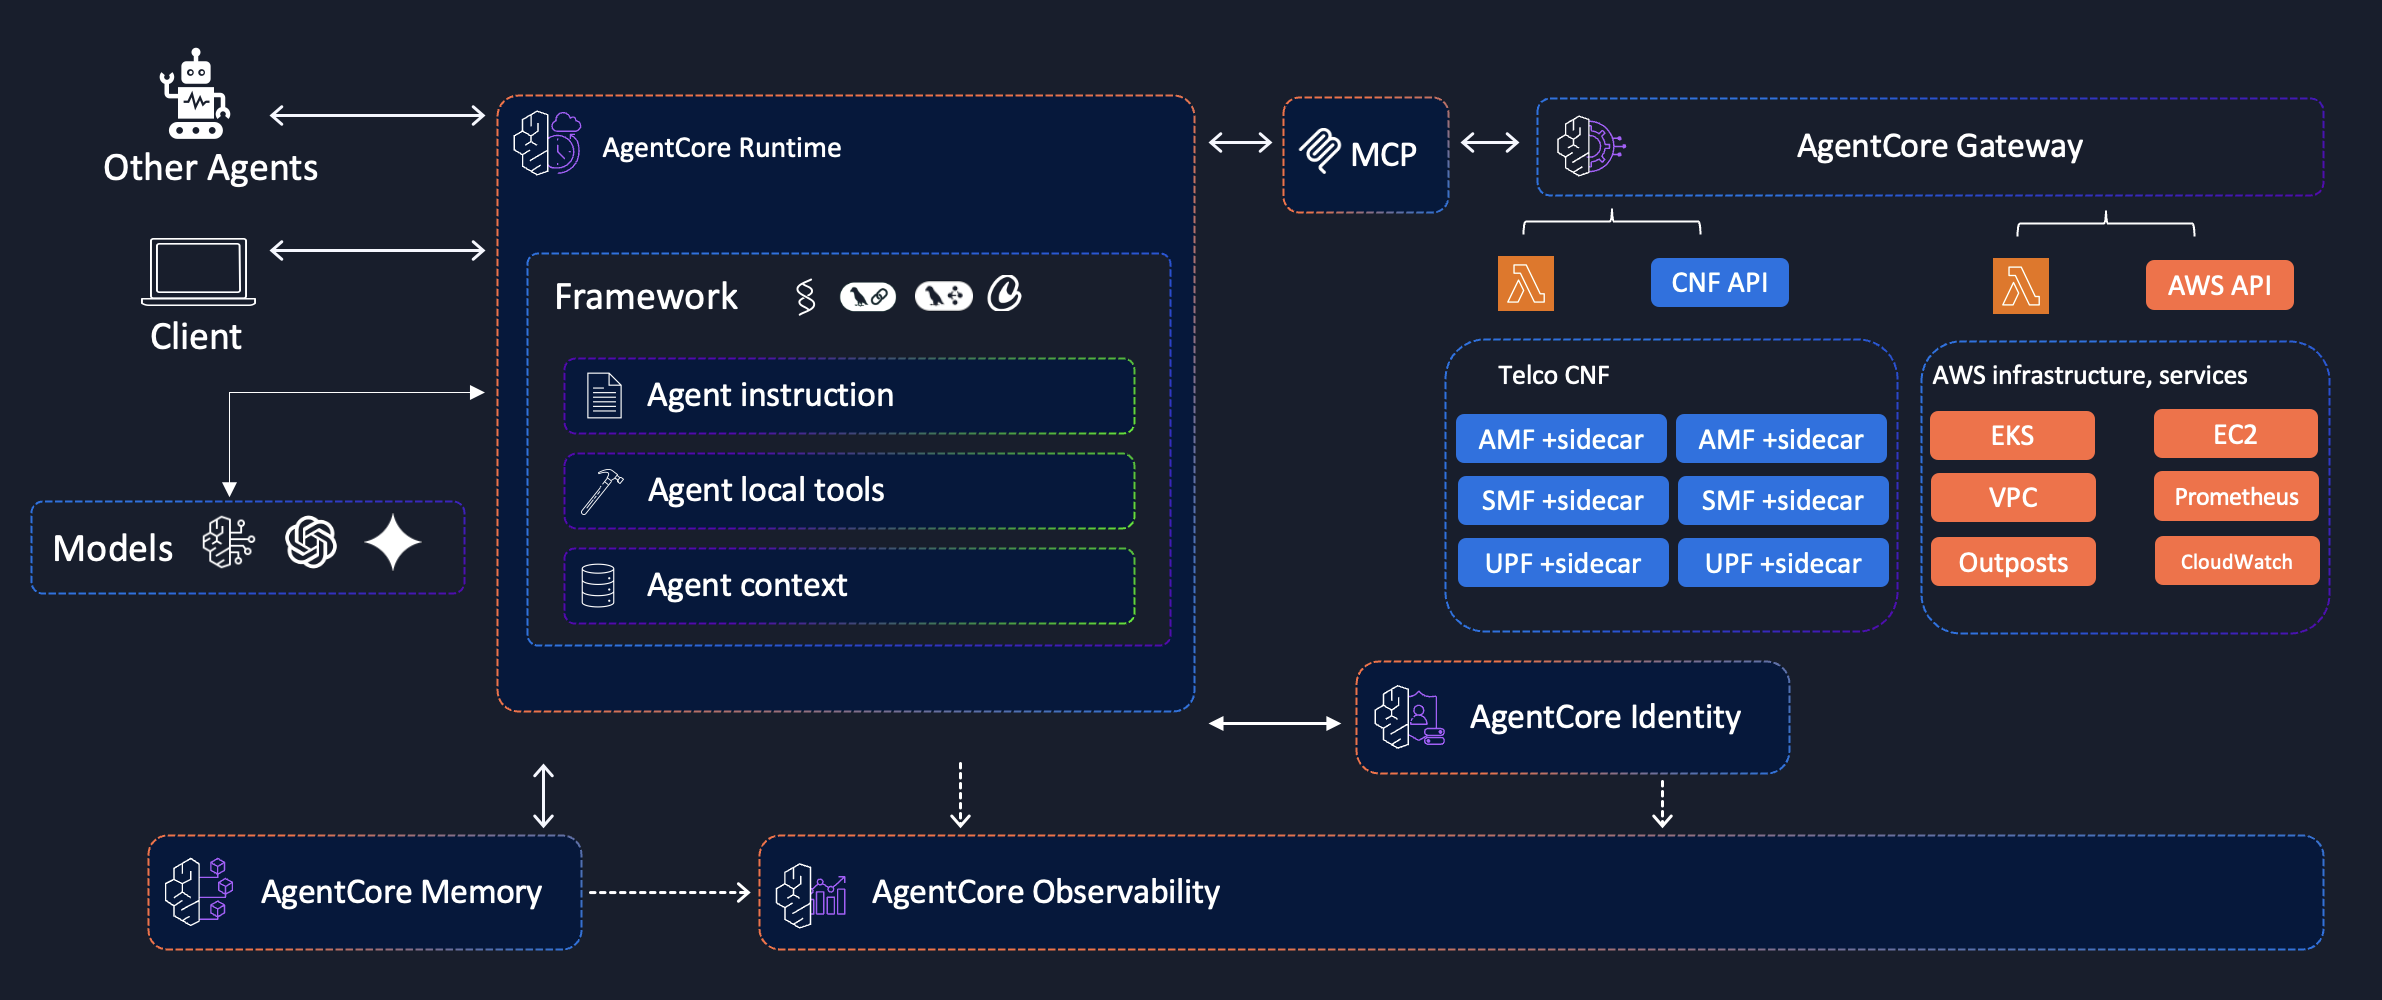
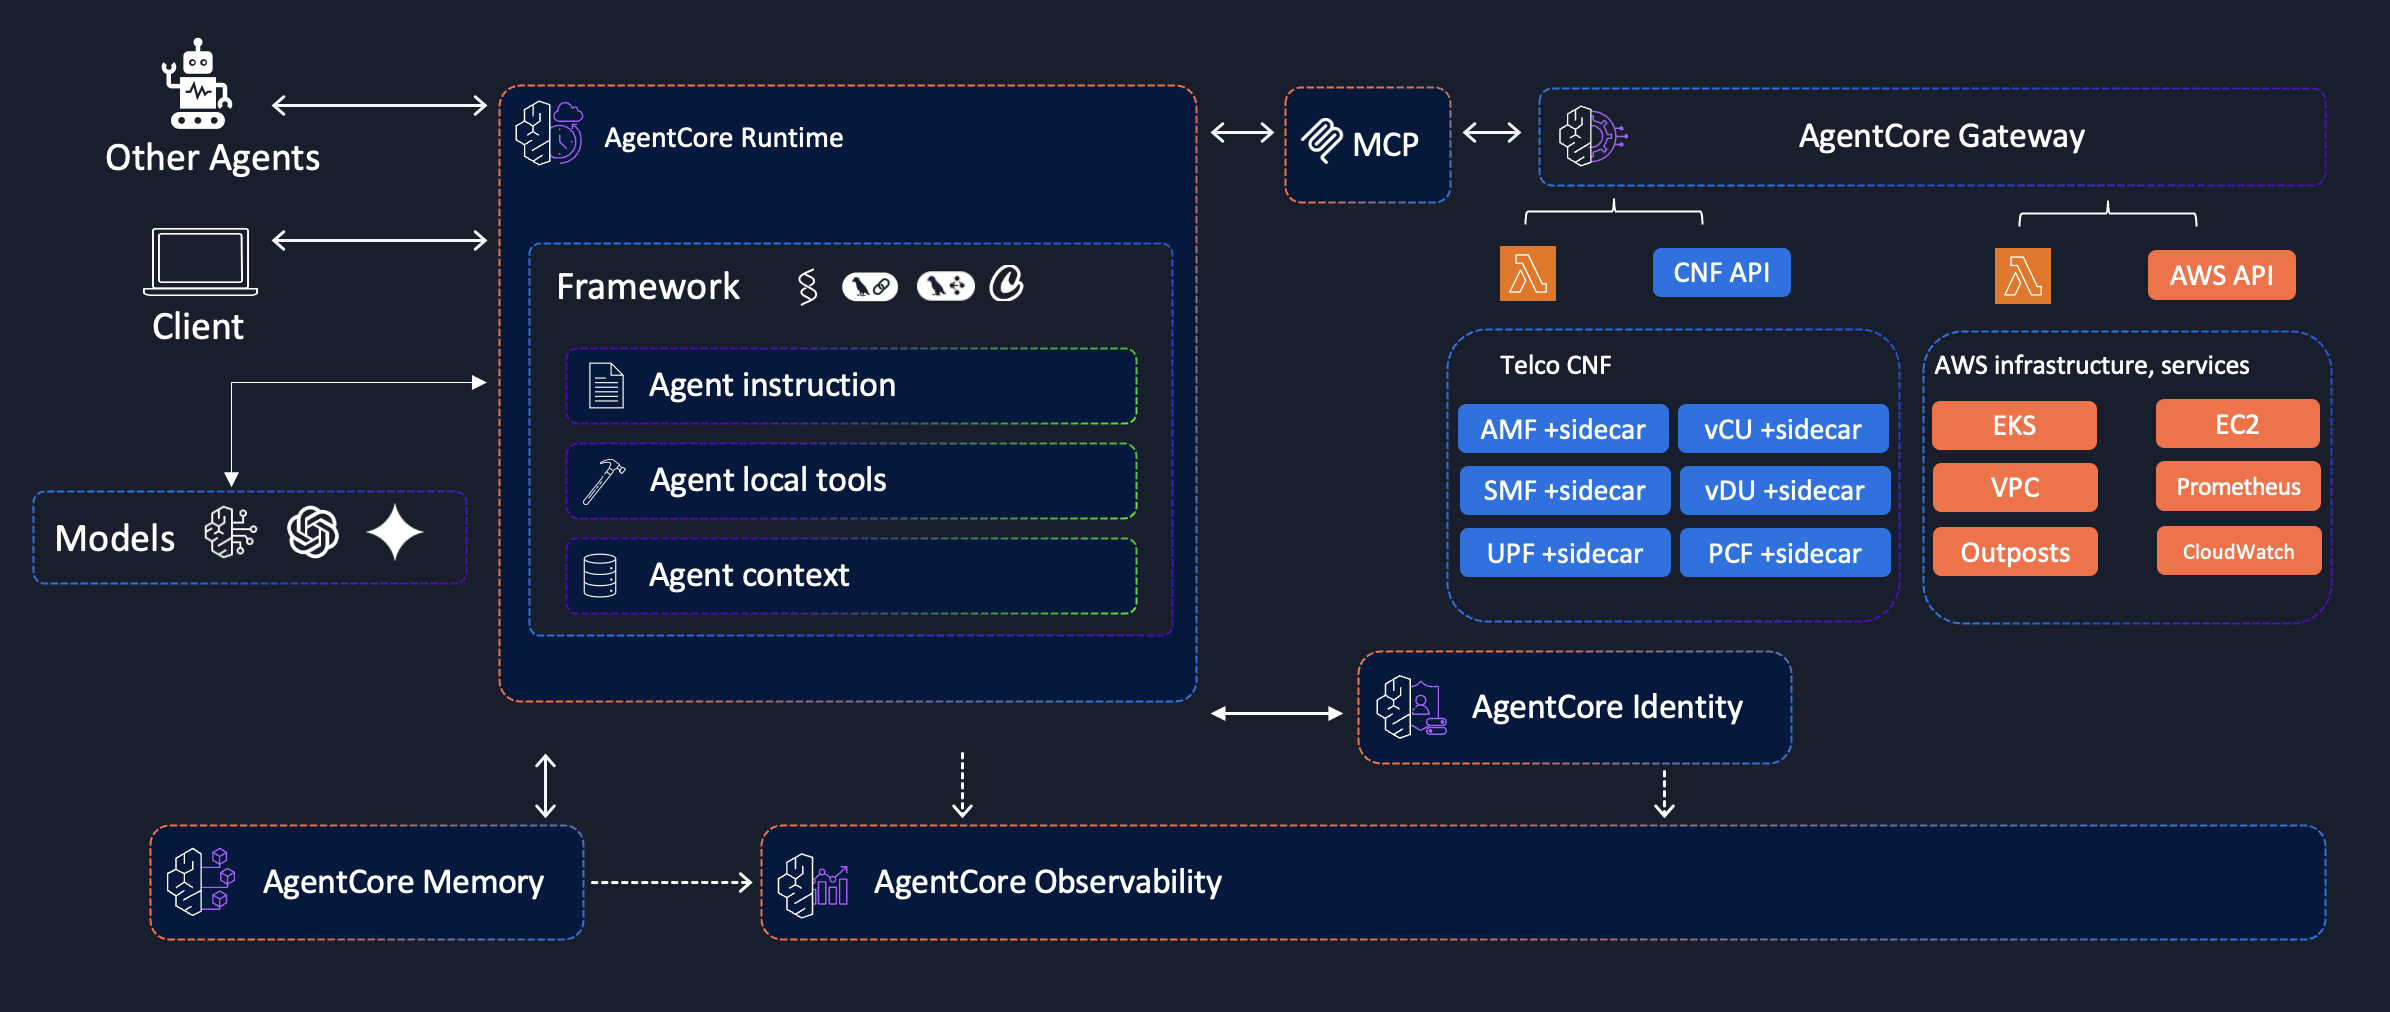
Improve telco multi-agent collaboration pattern documentation
- Rewrite TELCO_MAC_PATTERN.md with better markdown formatting
- Add comprehensive overview and architecture description
- Organize content into logical sections with proper headings
- Expand component descriptions with detailed purposes and tools
- Add communication flow patterns and implementation considerations
- Include benefits section highlighting key advantages
- Apply Kiro IDE autofix formatting improvements

diff --git a/TELCO_MAC_PATTERN.md b/TELCO_MAC_PATTERN.md
@@ -1,47 +1,124 @@
-# Telco Multi Agent Collaboration Pattern
+# Telco Multi-Agent Collaboration Pattern
 
-## 🔗 Key Relationships:
+## Overview
 
-Telco Containers (UPF, AMF, SMF) + Agentic Sidecar  → AWS Agent(s): eks-agent, outposts-agent, vpc-agent, prometheus-agent
-• Each Telco container + agentic sidecar pair communicate with AWS Agent(s)
-• Agentic sidecar will communicate with AWS Agent(s) for information exchange and correllation
+This document describes the multi-agent collaboration pattern for telecommunications infrastructure management using AWS AgentCore. The architecture enables intelligent 5G network management through specialized AWS agents that work together to provide comprehensive telco operations.
 
-AWS Agent(s) are connected 1:1 with AgentCore Gateways
-• All AWS Agents has it's own AgentCore Gateways
-• AgentCore Gateways has multiple tools related with it's specific domain
+## Architecture Diagram
 
-AgentCore Gateways → tools(), the tools are specific for the Agent's domain
-• eks-agent connected to eks-agentcore-gateway which has multiple tools: eks_controlplane_upgrade(), eks_workernode_upgrade(), eks_workernode_scaleout(), eks_workernode_scalein(), etc.
-• outposts-agent connected to outposts-agentcore-gateway which has multiple tools: outposts_nic_firmware_update(), outposts_hardware_initiate_fru(), outposts_health_check(), etc.
-• vpc-agent connected to vpc-agentcore-gateway which has multiple tools: vpc_reachability_check(), vpc_create_tgw(), vpc_start_flowlogs(), vpc_check_routetable(), etc.
-• prometheus-agent connected to prometheus-agentcore-gateway which has multiple tools: prometheus_query(), prometheus_range_query(), prometheus_list_metrics(), etc.
+![Telco-AgentCore Multi-Agent Collaboration](diagrams/telco-agentcore-multiagentscollaboration.png)
 
-## 🛠 Key Relationships Diagram:
-![Telco-AgentCore-MAC](diagrams/telco-agentcore-multiagentscollaboration.png)
+## Core Components
 
-## 🔗 Key Architecture Components:
+### 1. Telco Network Functions
 
-🏗 Telco Containers + Agentic Sidecars:
-• **UPF, AMF, SMF**: Core 5G network functions
-• **UERANSIM**: 5G UE simulator for testing
-• **gNB**: 5G Radio Access Network base station
-• **Agentic Sidecars**: Handle AWS communication and correlation
+The 5G core network functions that form the foundation of the telecommunications infrastructure:
 
-🤖 AWS Agents (1:1 with AgentCore Gateways):
-• **eks-agent** → EKS management and operations
-• **outposts-agent** → Outposts hardware and infrastructure
-• **vpc-agent** → VPC networking and connectivity
-• **prometheus-agent** → Monitoring and metrics
+- **UPF (User Plane Function)** - Handles user data traffic routing and forwarding
+- **AMF (Access and Mobility Management Function)** - Manages device registration and mobility
+- **SMF (Session Management Function)** - Handles session establishment and management
+- **vCU (RAN Centralized Unit Function)** - Handles Radio Access Network higher portions of Layer 2 (L2) and all of Layer 3 (L3) functions
+- **vDU (RAN Distributed Unit Function)** - Handles Radio Access Network Layer 1 (L1) and lower portions of Layer 2 (L2) functions
 
-🛠 AgentCore Gateways with Domain-Specific Tools:
-• **EKS Gateway**: Cluster upgrades, node scaling, worker management
-• **Outposts Gateway**: Hardware updates, FRU replacement, health checks
-• **VPC Gateway**: Connectivity tests, transit gateway, flow logs, routing
-• **Prometheus Gateway**: Metric queries, range queries, metric discovery
+### 2. Agentic Sidecars
 
-📡 Information Exchange & Correlation:
-• Bidirectional communication between all components
-• Real-time monitoring and management capabilities
-• Cross-domain correlation for holistic 5G network management
+Each telco container is paired with an intelligent sidecar that:
 
-This architecture enables intelligent 5G network management through AWS-native agents and tools.
+- Monitors container health and performance
+- Communicates with AWS agents for infrastructure management
+- Provides correlation between telco functions and AWS services
+- Enables automated remediation and optimization
+
+### 3. AWS Specialized Agents
+
+Four domain-specific agents handle different aspects of infrastructure management:
+
+#### EKS Agent (`eks-agent`)
+- **Purpose**: Amazon Elastic Kubernetes Service management
+- **Gateway**: `eks-agentcore-gateway`
+- **Key Tools**:
+  - `eks_controlplane_upgrade()` - Upgrade EKS control plane
+  - `eks_workernode_upgrade()` - Update worker node versions
+  - `eks_workernode_scaleout()` - Scale out worker nodes
+  - `eks_workernode_scalein()` - Scale in worker nodes
+
+#### Outposts Agent (`outposts-agent`)
+- **Purpose**: AWS Outposts hardware and infrastructure management
+- **Gateway**: `outposts-agentcore-gateway`
+- **Key Tools**:
+  - `outposts_nic_firmware_update()` - Update network interface firmware
+  - `outposts_hardware_initiate_fru()` - Initiate field replaceable unit replacement
+  - `outposts_health_check()` - Perform comprehensive health checks
+
+#### VPC Agent (`vpc-agent`)
+- **Purpose**: Virtual Private Cloud networking and connectivity
+- **Gateway**: `vpc-agentcore-gateway`
+- **Key Tools**:
+  - `vpc_reachability_check()` - Test network connectivity
+  - `vpc_create_tgw()` - Create transit gateway connections
+  - `vpc_start_flowlogs()` - Enable VPC flow logging
+  - `vpc_check_routetable()` - Validate routing configurations
+
+#### Prometheus Agent (`prometheus-agent`)
+- **Purpose**: Monitoring and observability with Amazon Managed Prometheus
+- **Gateway**: `prometheus-agentcore-gateway`
+- **Key Tools**:
+  - `prometheus_query()` - Execute PromQL queries
+  - `prometheus_range_query()` - Perform time-range queries
+  - `prometheus_list_metrics()` - Discover available metrics
+
+## Communication Flow
+
+### 1. Telco Container ↔ Agentic Sidecar
+- **Relationship**: 1:1 pairing
+- **Communication**: Local container networking
+- **Purpose**: Health monitoring, performance metrics, operational status
+
+### 2. Agentic Sidecar ↔ AWS Agents
+- **Relationship**: Many-to-many
+- **Communication**: Secure API calls via AgentCore
+- **Purpose**: Infrastructure management, correlation, automated remediation
+
+### 3. AWS Agent ↔ AgentCore Gateway
+- **Relationship**: 1:1 dedicated connection
+- **Communication**: AgentCore protocol
+- **Purpose**: Tool execution, memory management, authentication
+
+## Key Benefits
+
+### Intelligent Automation
+- Automated infrastructure management based on telco workload requirements
+- Proactive issue detection and remediation
+- Cross-domain correlation for holistic network management
+
+### Scalability
+- Independent scaling of telco functions and infrastructure agents
+- Distributed decision-making across specialized domains
+- Efficient resource utilization through intelligent orchestration
+
+### Observability
+- Comprehensive monitoring across telco and infrastructure layers
+- Real-time metrics and alerting
+- Historical analysis and trend identification
+
+### Reliability
+- Fault isolation between telco functions and infrastructure management
+- Automated failover and recovery procedures
+- Continuous health monitoring and validation
+
+## Implementation Considerations
+
+### Security
+- Secure communication channels between all components
+- Role-based access control for agent operations
+- Audit logging for all infrastructure changes
+
+### Performance
+- Low-latency communication for real-time operations
+- Efficient resource utilization across all agents
+- Optimized tool execution and response times
+
+### Maintenance
+- Independent deployment and updates for each agent
+- Centralized configuration management
+- Comprehensive testing and validation procedures
